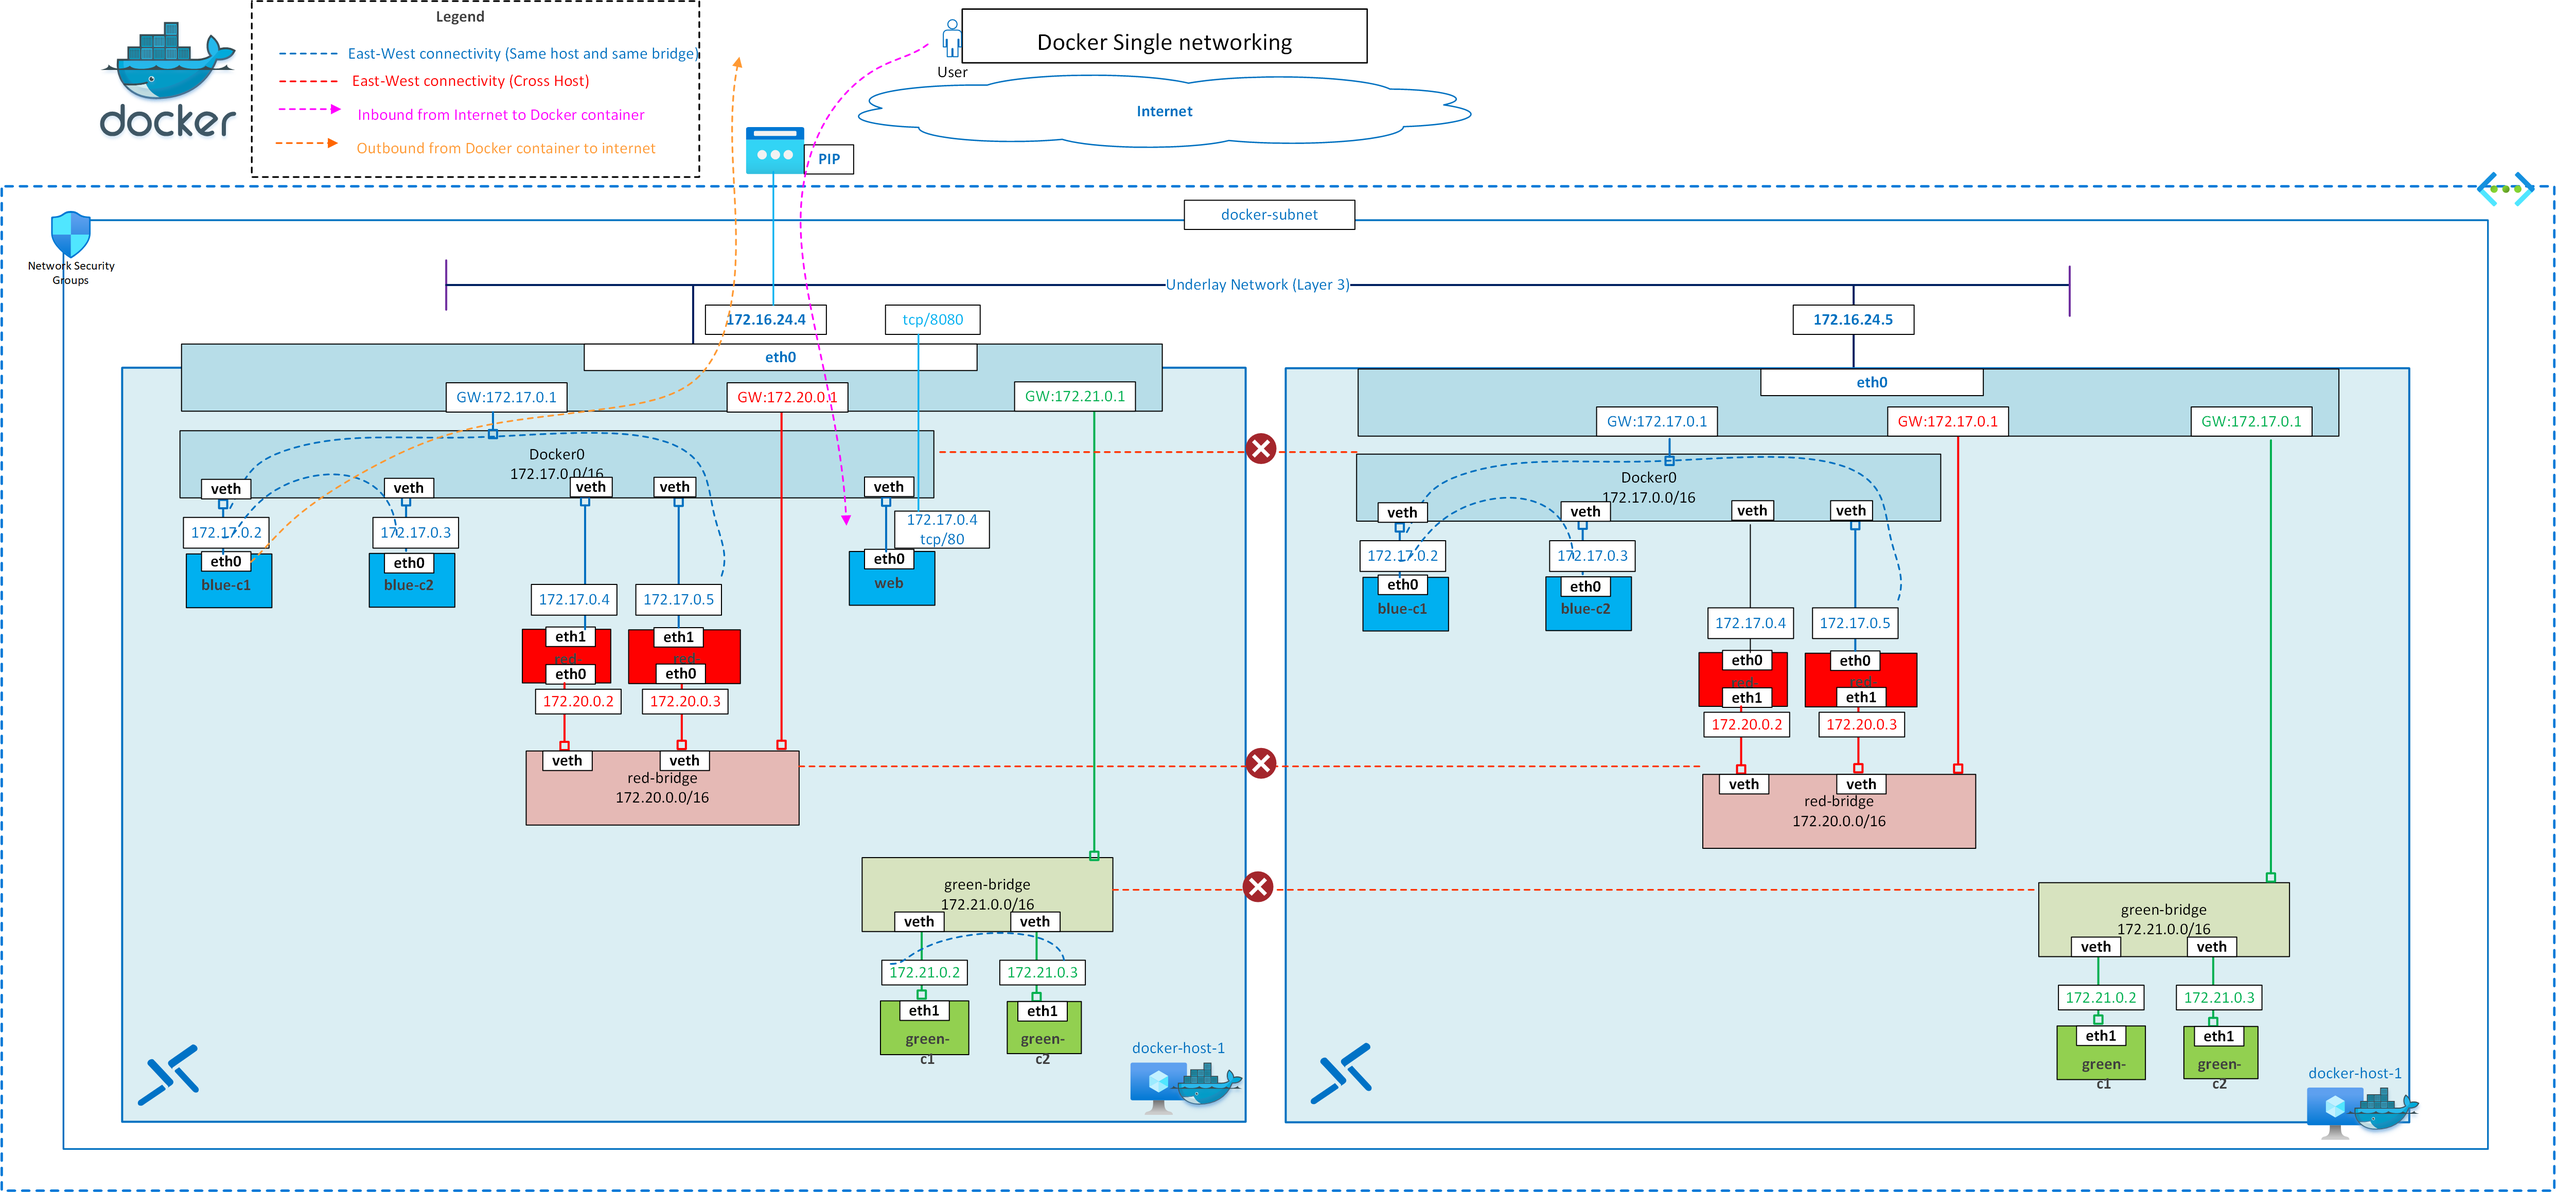
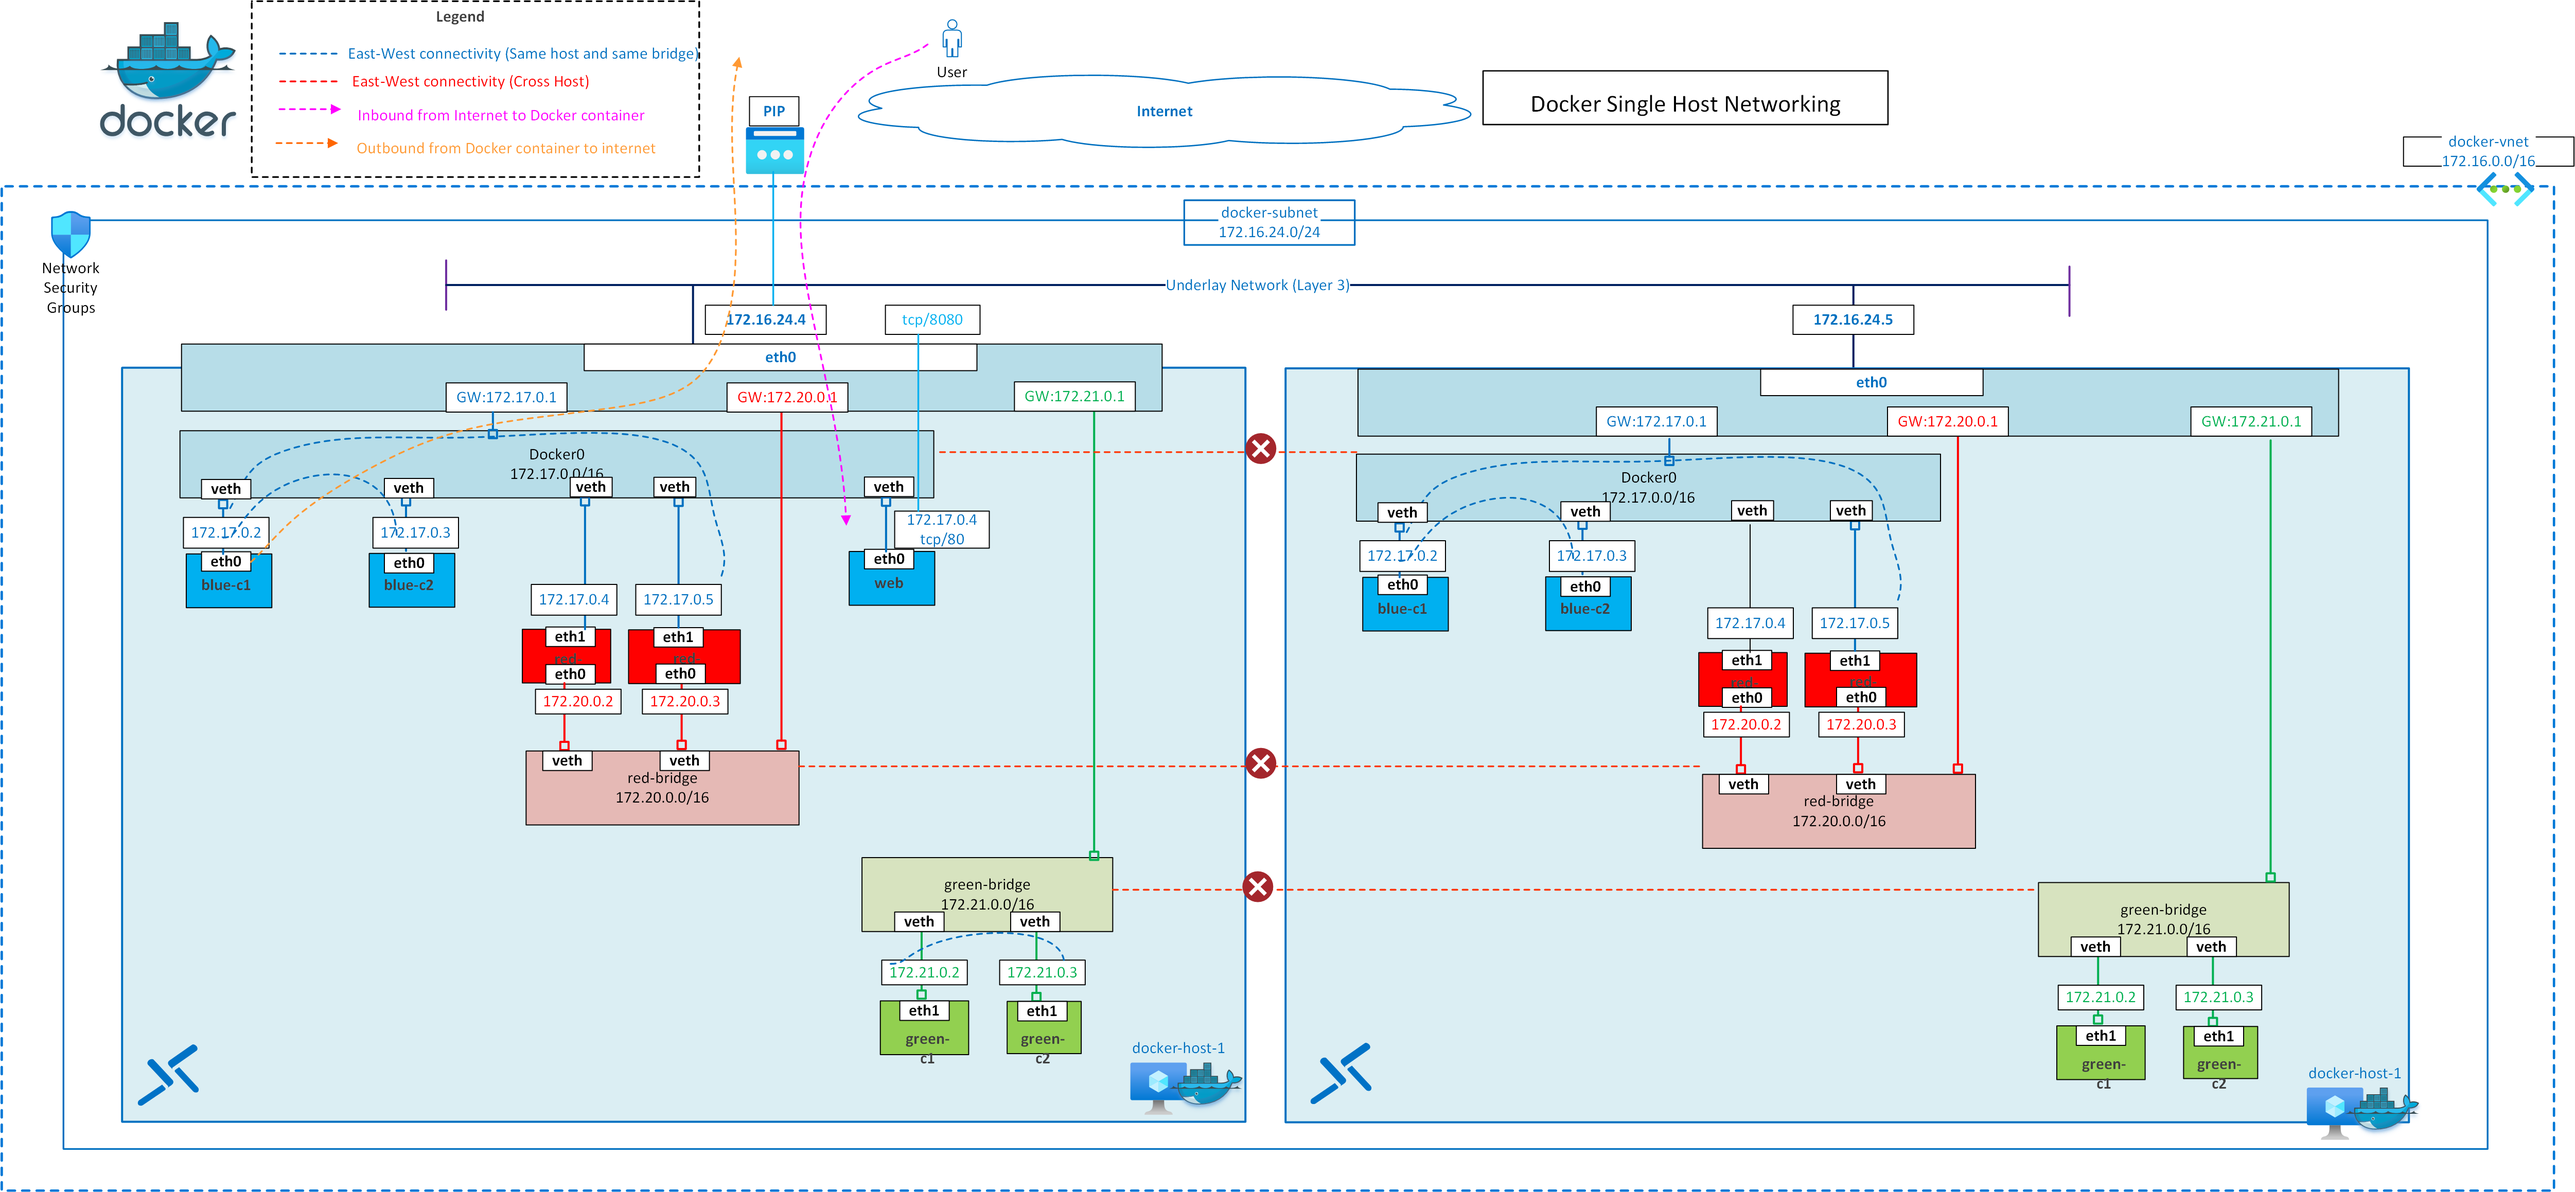
updated challenges and image

diff --git a/aks/README-docker-singlehost.md b/aks/README-docker-singlehost.md
@@ -1,4 +1,4 @@
-# Docker Single host Networking
+# Docker Single Host Networking
 
 This architecture demonstrates _single_ docker host and networking within the docker host, custom bridge networks and dual homing containers. Containers connected to the bridge network on one docker host cannot talk to the container on the other host. **Bridge networks are scoped locally and don't span multiple hosts**.
 
